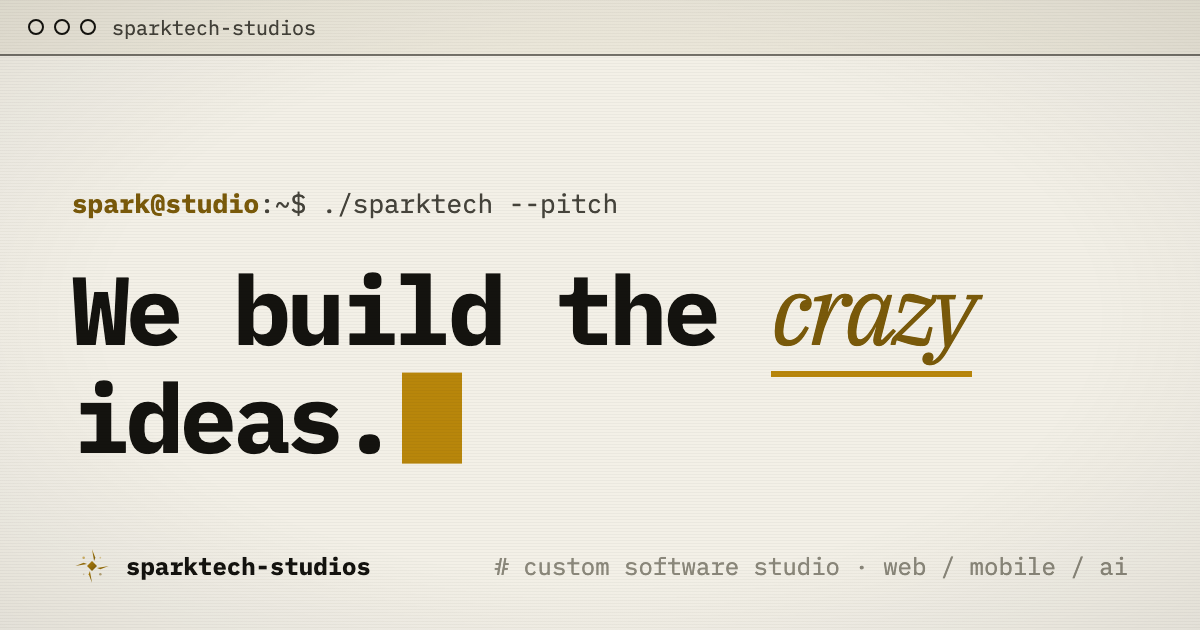
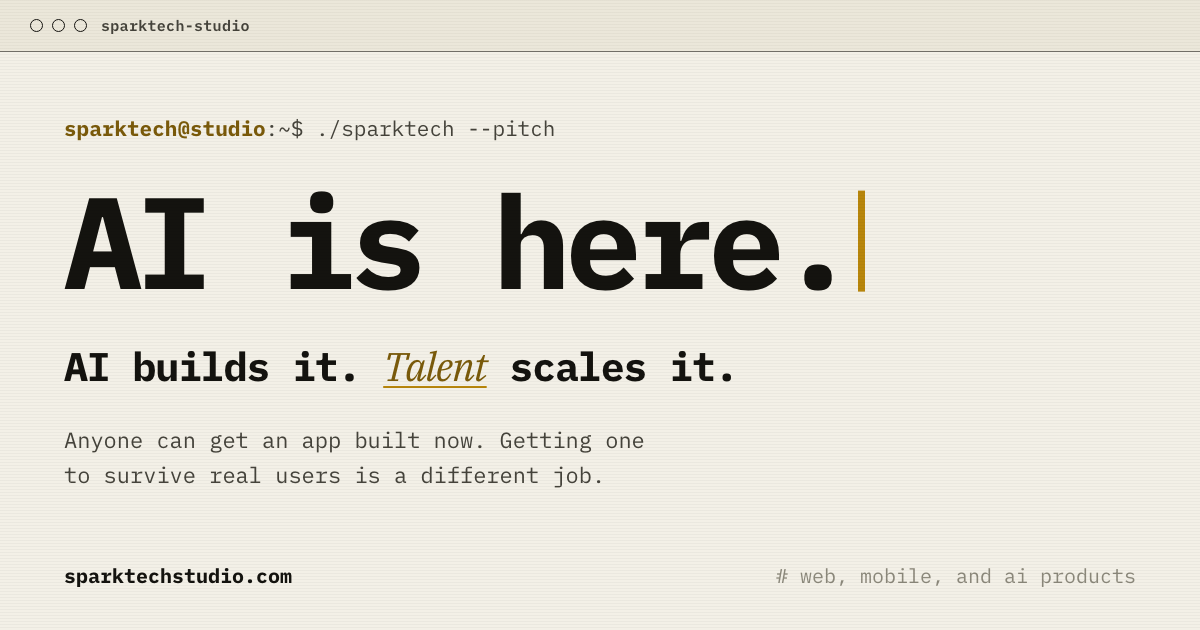
Sweep loose ends: singular brand, new share card, drop dead code
- Brand goes singular ("SparkTech Studio") to match sparktechstudio.com,
  across the wordmark, tree root, page title, OG tags, and body copy. The
  footer copyright keeps "SparkTech Studios, LLC" — registered entity name.
- Regenerate public/og.png. The old card had the stale spark@studio prompt
  and pre-pivot copy baked into the pixels, so a find-and-replace could not
  reach it; re-rendered from HTML at 1200x630. og:image gains ?v=2 because
  social caches key on the image URL and would serve the old card forever.
- Delete Typewriter.jsx. Dead since the hero stopped typing, and it held the
  repo's only two lint errors. Lint is now clean. The .tw-caret CSS stays —
  the blinking caret is still used as an ambient live-prompt mark.
- AGENTS.md becomes a pointer to CLAUDE.md. It was a byte-identical copy of
  the pre-pivot CLAUDE.md that had silently gone stale, so any agent reading
  it worked from the wrong brief. A pointer cannot drift.

diff --git a/index.html b/index.html
@@ -8,15 +8,17 @@
     <link rel="icon" type="image/png" sizes="32x32" href="/favicon-32.png" />
     <link rel="apple-touch-icon" href="/apple-touch-icon.png" />
     <meta name="viewport" content="width=device-width, initial-scale=1.0" />
-    <title>SparkTech Studios</title>
+    <title>SparkTech Studio</title>
     <meta name="description" content="AI builds it. Talent scales it. A software studio that pairs AI speed with senior engineers, so your product holds up with real users instead of stopping at the demo." />
     <link rel="canonical" href="https://www.sparktechstudio.com/" />
     <meta property="og:type" content="website" />
-    <meta property="og:site_name" content="SparkTech Studios" />
-    <meta property="og:title" content="SparkTech Studios: AI builds it, talent scales it" />
+    <meta property="og:site_name" content="SparkTech Studio" />
+    <meta property="og:title" content="SparkTech Studio: AI builds it, talent scales it" />
     <meta property="og:description" content="Anyone can build an app now. Almost nobody can scale one. We pair AI speed with senior engineers so your product survives real users." />
     <meta property="og:url" content="https://www.sparktechstudio.com/" />
-    <meta property="og:image" content="https://www.sparktechstudio.com/og.png" />
+    <!-- ?v=2 busts the social caches, which key on the image URL and would
+         otherwise keep serving the old card indefinitely. -->
+    <meta property="og:image" content="https://www.sparktechstudio.com/og.png?v=2" />
     <meta property="og:image:width" content="1200" />
     <meta property="og:image:height" content="630" />
     <meta name="twitter:card" content="summary_large_image" />

diff --git a/src/components/Navbar.jsx b/src/components/Navbar.jsx
@@ -21,8 +21,8 @@ export default function Navbar() {
         <div className="nav-left">
           <span className="term-dots" aria-hidden="true"><i /><i /><i /></span>
           <a href="#" className="logo">
-            <img src="/logo.svg" alt="SparkTech Studios" className="logo-icon" />
-            <span className="logo-text">sparktech<span className="logo-text-suffix">-studios</span><span className="logo-caret" aria-hidden="true" /></span>
+            <img src="/logo.svg" alt="SparkTech Studio" className="logo-icon" />
+            <span className="logo-text">sparktech<span className="logo-text-suffix">-studio</span><span className="logo-caret" aria-hidden="true" /></span>
           </a>
         </div>
         <ul className="nav-links">

diff --git a/src/components/Footer.jsx b/src/components/Footer.jsx
@@ -7,8 +7,8 @@ export default function Footer() {
         <div className="footer-top">
           <div className="footer-brand">
             <a href="#" className="logo">
-              <img src="/logo.svg" alt="SparkTech Studios" className="logo-icon" />
-              <span className="logo-text">sparktech-studios</span>
+              <img src="/logo.svg" alt="SparkTech Studio" className="logo-icon" />
+              <span className="logo-text">sparktech-studio</span>
             </a>
             <p className="comment"># ai for the volume, senior engineers for everything that decides whether it scales.</p>
           </div>

diff --git a/src/components/Showcase.jsx b/src/components/Showcase.jsx
@@ -22,7 +22,7 @@ export default function Showcase() {
         <div className="tree">
           <div className="tree-root reveal">
             <img src="/logo.svg" alt="" className="tree-root-logo" />
-            <span className="tree-root-name">sparktech-studios/</span>
+            <span className="tree-root-name">sparktech-studio/</span>
           </div>
 
           <ul className="tree-list reveal-stagger">

diff --git a/src/index.css b/src/index.css
@@ -86,7 +86,9 @@ body::after {
   background-size: 220px 220px;
 }
 
-/* ---------- Typewriter caret ---------- */
+/* ---------- Blinking caret ----------
+   Ambient only. Nothing types on the site any more; this marks live prompts
+   in the hero headline, the navbar, the contact line, and the footer. */
 .tw-caret {
   display: inline-block;
   width: 0.62em;

diff --git a/src/components/Beliefs.jsx b/src/components/Beliefs.jsx
@@ -32,7 +32,7 @@ export default function Beliefs() {
           <p>
             You do not need a massive budget or a year of runway. You need a
             senior team that gets excited about weird ideas and knows how to
-            ship. That is SparkTech Studios.
+            ship. That is SparkTech Studio.
           </p>
         </div>
       </div>

diff --git a/DESIGN.md b/DESIGN.md
@@ -101,6 +101,9 @@
 | 2026-07-17 | Social share card (`public/og.png`, 1200×630) in the paper-terminal style | Meta/OG tags added to `index.html`; card reuses the terminal bar, prompt, typed headline with gold caret, and scanlines. Canonical domain: www.sparktechstudio.com. |
 | 2026-07-24 | **Concept pivot: "AI builds it. Talent scales it."** | Per user. The site led with "we build crazy ideas," which AI has made cheap. New lead is the scaling thesis: building is solved, scaling takes AI *and* senior talent. Crazy-ideas DNA stays (contact heading, mission) but no longer carries the hero. |
 | 2026-07-24 | Full-bleed dark hero image (macro transistor) | Per user. First dark surface and first photographic element on the site; framed by a terminal title strip so it reads as a file open in the console. Warm amber/gold was prompted deliberately so it lands on the existing gold accent instead of fighting it. |
+| 2026-07-24 | Brand goes singular: **SparkTech Studio** | Per user, matching sparktechstudio.com. Applied to the wordmark, tree root, page title, OG tags, and the about-section sign-off. The footer copyright stays "SparkTech Studios, LLC" — that is the registered entity, not a typo. |
+| 2026-07-24 | Regenerate `public/og.png`; delete `Typewriter.jsx`; `AGENTS.md` becomes a pointer | Loose-end sweep. The share card had the old `spark@studio` prompt and pre-pivot copy baked into the pixels, so it was re-rendered from HTML at 1200×630 (and `og:image` gained `?v=2`, since social caches key on the URL). `Typewriter.jsx` was dead once the hero stopped typing, and held the repo's only 2 lint errors — now zero. `AGENTS.md` was a byte-identical copy of the pre-pivot `CLAUDE.md` that had silently gone stale; it is a pointer now so it cannot drift again. |
+| 2026-07-24 | "AI is here." shows immediately instead of typing | Per user. Nothing on the site types now; the blinking caret stays as an ambient live-prompt mark. |
 | 2026-07-24 | Hero background is a terminal printing itself out, ending on "AI is here." | Per user: "dramatic and fast." Same build-it-in-markup reasoning as below. Held clear of the pitch column (`left: 58%`) rather than scrimmed, since a scrim is a gradient and those are out. |
 | 2026-07-24 | **Tried black-and-white site-wide, reverted.** Warm paper + gold stands. | Per user, who asked for it and then called the result awful on sight. The flip itself was clean (one `:root` token swap repainted everything), so this is a taste verdict on monochrome, not a technical failure. **Do not propose a B&W repaint again.** Kept: the hero stream. Reverted: palette, scanline/vignette colours, the four `color: var(--paper)` contrast fixes the white accent required, and the white-logo filter. |
 | 2026-07-24 | Remove the radial glow behind the hero | Per user: "take away the gradient, I don't like that." Gradients are out generally; the scanline overlay stays. |

diff --git a/CLAUDE.md b/CLAUDE.md
@@ -39,6 +39,7 @@ Rules when writing about this:
 - `public/logo.png` - Lightning bolt logo (transparent background)
 - The hero visual is a **live terminal session built in React** (`Hero.jsx`), not an image or video. There is no photography on the site. Do not reintroduce a video or stock-image hero without asking.
 - The terminal prompt user is `sparktech@studio` everywhere. Never shorten it to `spark@studio` — the brand is SparkTech.
+- **The brand is "SparkTech Studio", singular**, matching sparktechstudio.com — in the wordmark, page title, OG tags, and body copy. The **one** exception is the footer copyright, which reads "SparkTech Studios, LLC" because that is the registered entity. Do not "fix" that line to match.
 - Accent color is a muted yellow/gold (`--accent-yellow`, `--accent-gold`)
 
 ## Design System

diff --git a/AGENTS.md b/AGENTS.md
@@ -1,0 +1,10 @@
+# SparkTech Studios — agent instructions
+
+**The instructions for this repo live in [`CLAUDE.md`](./CLAUDE.md). Read that file.**
+Design rules live in [`DESIGN.md`](./DESIGN.md); read it before any visual or UI change.
+
+This file used to be a full copy of `CLAUDE.md`. The copy silently went stale —
+it still described the studio's pre-pivot positioning ("we build the crazy ideas")
+long after the site had moved to the AI + talent thesis, so any agent reading it
+worked from the wrong brief. It is a pointer now so that cannot happen again.
+Do not paste the instructions back in here.
